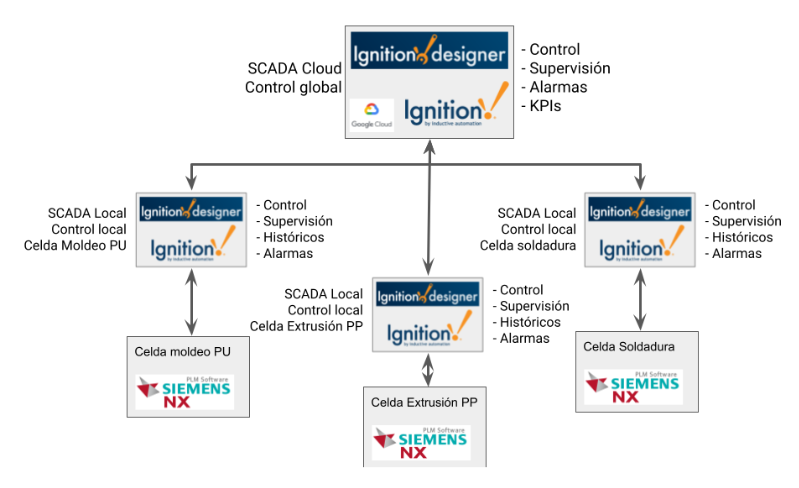
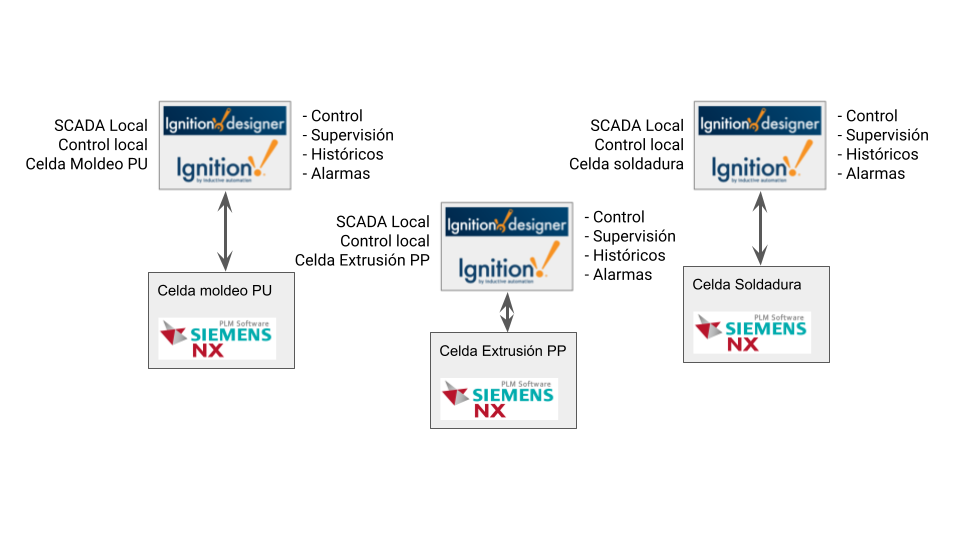
Actualizacion Industrias 4.0 y comunicaciones

Changed region(s): [[0.03, 0.0307, 0.9912, 0.9529], [0.1502, 0.7684, 0.3004, 0.8607], [0.8411, 0.6455, 0.8711, 0.6762]]

diff --git a/indu40.html b/indu40.html
@@ -76,20 +76,40 @@
 
 				<div class="section-title" data-aos="fade-up">
 					<h2>Resumen ISA 95</h2>
+					<p style="text-align:justify"> Para lograr una adecuada estructuración de un proyecto de automatización para procesos de manufactura e industriales se necesita conocer el estándar ISA-95, o también conocida como la piramide de la automatización. En esta podemos observar diferentes niveles, cada uno cumple una función definida y que se debe comunicar con los demás niveles. Estos niveles son:</p>
+					<ul>
+						<li style="text-align:justify">Nivel 0 - Proceso de producción: Este nivel está conformado por el conjunto de actuadores y sensores dispuestos en la planta del proceso de manufactura. Dentro del alcance de este proyecto no se cuenta con una planta real por lo que, mediante un proceso de comisionamiento virtual, se realiza la simulación de los procesos en algunas de las celdas.</li>
+						<li style="text-align:justify">Nivel 1 - Control: Este nivel está conformado por el conjunto de PLC, DCS y/o PAC que realizan la lectura de las señales dadas por los sensores y envían señales a los actuadores, para realizar sus funciones dentro de la celda. Dentro del alcance de este proyecto se utiliza el software Studio 5000 para el desarrollo de la lógica de PLC Allen Bradley mediante lenguajes definidos en las normas IEC 61131-3, aunque no se cuentan con PLC físicos, se realiza las simulaciones por medio de PLC emulados.</li>
+						<li style="text-align:justify">Nivel 2 - Supervisión: Este nivel está conformado por el sistema y software SCADA que permiten el control, supervisión, historización y alarmas, normalmente a distancia, de la planta de producción. Dentro del alcance de este proyecto se logra el desarrollo de software SCADA, con conexión a la red local de los PLC, por medio del software Ignition.</li>
+						<li style="text-align:justify">Nivel 3 - Planeación: Este nivel está conformado por los sistemas de ejecución de manufactura (MES), los cuales permite la gestión y regulación de los flujos de producción de la planta. Dentro del alcance de este proyecto, en el módulo de gestión de producción, se realizó el control y optimización del flujo de producción mediante un estudio del mercado para conocer el takt time necesario para el cumplimiento de la demanada</li>
+						<li style="text-align:justify">Nivel 4 - Administración: Este nivel está conformado por los sistemas de administración de recursos empresariales (ERP), que gestionan los inventarios, facturación, contabilidad y logística de procesos. Dentro del alcance de este proyecto, en el módulo de gestión de proyecto y gestión económica, se realizó la gestión de los costos del proyecto, la planeación del costo de producto y la planeación tanto de la financiación del proyecto como la logística de tiempos.</li>
+					</ul>
+					<br>
 					<img src="img/ISA95.png"  class="center" style="max-width: 40%; height: auto; "  alt="VSM Manual" title=""/>
 					<br>
+					<br>
+					<p style="text-align:justify">También es importante resaltar los tiempo de procesamiento y envío de información entre los niveles de la pirámide. Para el nivel de campo, es crítico la lectura de sensores y el control de actuadores en escalas de tiempo de ms y hasta us. Para el nivel de control regularmente los controladores industriales tienen tiempos de procesamiento de ordenes de ms. Para el nivel de supervisión, los SCADA pueden recibir señales en ordenes de los segundos, aunque el monitoreo de señales si puede ser en rangos más amplios de tiempo. Para el nivel de planeación, se manejan el procesamiento de información en ordenes de horas o hasta días. Por último para la nivel de administración hay una toma de decisiones en ordenes de tiempo de días, semanas o hasta meses.</p>
 					
 					<h2>Resumen tecnologías 4.0</h2>
+					
+					<p style="text-align:justify">Las industrias 4.0 hacen referencia a la evolución de las formas como se desarrollan los procesos en las empresas, ya sean de manufactura, operativos o administrativos, para generar nuevos modelos de negocios. En particular destacaremos todas las tecnologías habilitadoras disponibles para las empresas para realizar una transformación digital de disrumpir el mercado.</p>
+
 					<img src="img/Tecnologias_40.png"  class="center" style="max-width: 40%; height: auto; "  alt="VSM Manual" title=""/>
 					<br>
 					
+					<p style="text-align:justify">En particular nos concentraremos en 3 tecnologías:</p>
+					
+					<ul>
+						<li style="text-align:justify">Gemelos digitales: Es una replica digital de una entidad física existente. A diferencia de una sombra digital, que logra simular todos los procesos que realiza la planta a tiempo real, el gemelo digital añade funcionalidad como la comunicación en dos vías para controlar el proceso físico desde el simulador. Esto puede ser utilizado para varios fines, como prevención de eventualidades, predicción de procesos de mantenimiento o simulación de nuevos proceso.</li>
+						<li style="text-align:justify">Internet de las cosas (IoT): Esta tecnología contempla la interconexión de los objetos físicos a través de redes de comunicaciones, en particular el internet, para convertirlos en objetos inteligentes y autónomos.</li>
+					</ul>
+
 					<h2>Propuestas de aplicación tecnologías 4.0</h2>
 					<p style="text-align:justify">Como propuesta para la implementación de tecnologías en el proyecto, se propuso la implementación de 3 mejoras:</p>
 
 					<ol>
-						<li>Implementación de gemelo digital por medio de los actuadores (como motores, pistones neumáticos, botones) encontrados en el Laboratorio de Automatización de la Universidad Nacional de Colombia. Este consiste en que la planta simulada en NX esté ligada a estos actuadores físicos para realizar una sombra digital, a su vez que la planta física (por medio de los botones) se pueda realizar cambios a la simulación.</li>
-						<li>Implementación de SCADA Cloud por medio de los servidores de Google Cloud. Este SCADA será el encargado de controlar y monitorear los procesos de las celdas simuladas en NX por medio de la comunicación con los SCADA locales.</li>
-						<li>Implementación de tecnologías IoT por medio de un chatbot de Telegram que permita la comunicación con la planta</li>
+						<li style="text-align:justify">Implementación de gemelo digital por medio de los actuadores (como motores, pistones neumáticos, botones) encontrados en el Laboratorio de Automatización de la Universidad Nacional de Colombia. Este consiste en que la planta simulada en NX esté ligada a estos actuadores físicos para realizar una sombra digital, a su vez que la planta física (por medio de los botones) se pueda realizar cambios a la simulación.</li>
+						<li style="text-align:justify">Implementación de SCADA Cloud por medio de los servidores de Google Cloud. Este SCADA será el encargado de controlar y monitorear los procesos de las celdas simuladas en NX por medio de la comunicación con los SCADA locales.</li>
 					</ol>
 					<br>
 					<img src="img/Arquitectura_40.png"  class="center" style="max-width: 40%; height: auto; "  alt="Estacion Manual" title=""/>
@@ -98,17 +118,12 @@
 					<h2>Videos funcionamiento</h2>
 					<h3>Gemelo digital</h3>
 					<br>
-					<iframe src="" width="640" height="480" allow="autoplay"></iframe>
-					<br>
-
-					<h3>SCADA Cloud</h3>
-					<br>
-					<iframe src="" width="640" height="480" allow="autoplay"></iframe>
+					<iframe src="https://drive.google.com/file/d/1MpCn3ZW5qZencDiMTAo7CD5Kn0pZT1Kw/preview" width="640" height="480" allow="autoplay"></iframe>
 					<br>
 
 					<h3>Chatbot Telegram</h3>
 					<br>
-					<iframe src="" width="640" height="480" allow="autoplay"></iframe>
+					<iframe src="https://drive.google.com/file/d/1J9FtAUJZ54eg3jhaaRODB6sjQQMAfZy6/preview" width="640" height="480" allow="autoplay"></iframe>
 					<br>
 					<p></p>
 

diff --git a/comunicaciones.html b/comunicaciones.html
@@ -62,20 +62,29 @@
 				<div class="container">
 		  
 				  <div class="d-flex justify-content-between align-items-center">
-					<h2>Actuadores en Automatización</h2>
+					<h2>Comunicaciones industriales</h2>
 					<ol>
 					  <li><a href="index.html">Home</a></li>
-					  <li>Actuadores en Automatización</li>
+					  <li>Comunicaciones industriales</li>
 					</ol>
 				  </div>
 		  
 				</div>
 			</section>
 
-            <!-- --------------------------------------------------------------------- -->
-            <!-- CONTENIDO DE MÓDULO -->
-            <!-- --------------------------------------------------------------------- -->
+            <div class="container">
 
+				<div class="section-title" data-aos="fade-up">
+					
+					<h2>Arquitectura de comunicaciones</h2>
+					
+					<p style="text-align:justify">Un aspecto vital en los proyectos de automatización es la comunicación de los diferentes niveles compartiendo datos de interés para cada uno. Para el presente proyecto se logró la implementación de los diferentes software usados mediante el estándar OPC, siguiendo el siguiente esquema:</p>
+					<br>
+					<img src="img/Comunicaciones_industriales.png"  class="center" style="max-width: 80%; height: auto; "  alt="VSM Manual" title=""/>
+					<br>
+					
+				</div>
+			</div>
 
 			<footer>
 				<div class="container">

diff --git a/scada.html b/scada.html
@@ -96,13 +96,6 @@
 					<br>
 
 					<h2> Detalles diseño SCADA: </h2>
-					<h3> Explicación General SCADA Cloud </h3>
-					<p  style="text-align:justify">  </p>
-					<img src="img/prob_scada2.PNG"  style="max-width: 20%; height: auto; " class="center"  alt="" title=""/>
-					<img src="img/prob_scada3.PNG"   style="max-width: 20%; height: auto; " class="center"  alt="" title=""/>
-					<img src="img/prob_scada4.PNG"  style="max-width: 20%; height: auto; "  class="center"  alt="" title=""/>
-					<img src="img/prob_scada5.PNG"  style="max-width: 20%; height: auto; "  class="center"  alt="" title=""/>
-					<br>
 
 					<h3>Video Explicación General SCADA Celdas locales: </h3>
 					<iframe src="https://drive.google.com/file/d/10JDic0tSmDB_Rg9zo2JAEYJBBbInAsfW/preview" width="640" height="480" allow="autoplay"></iframe>
